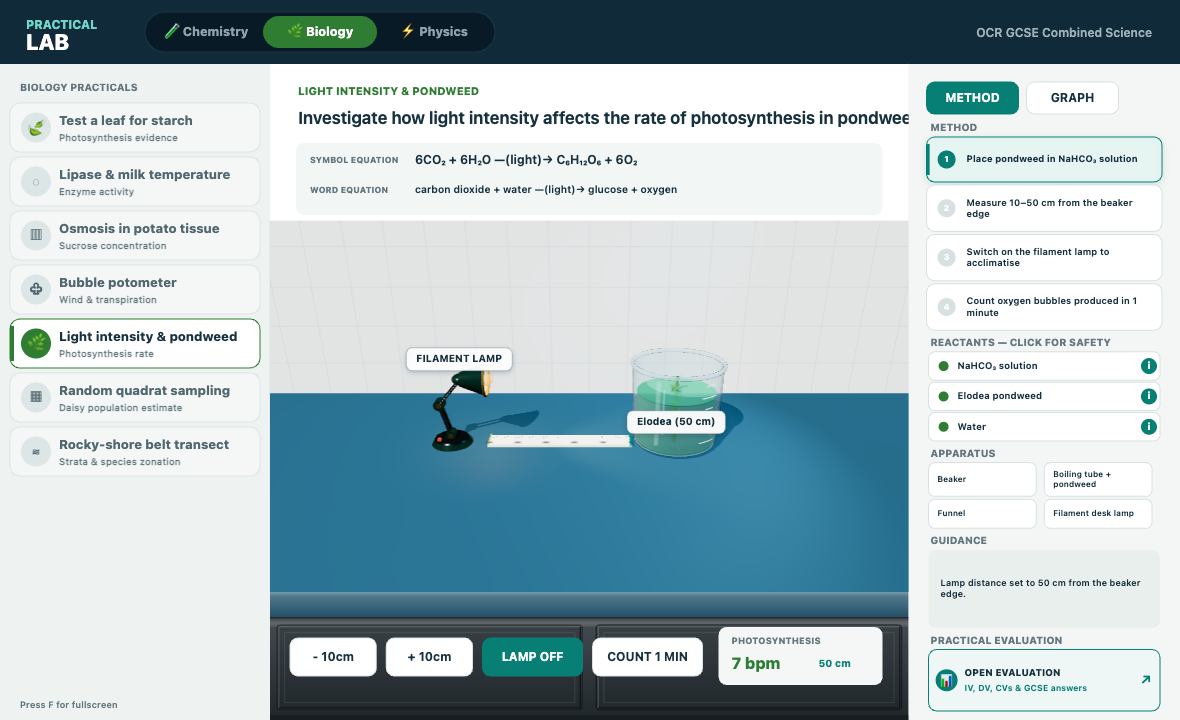
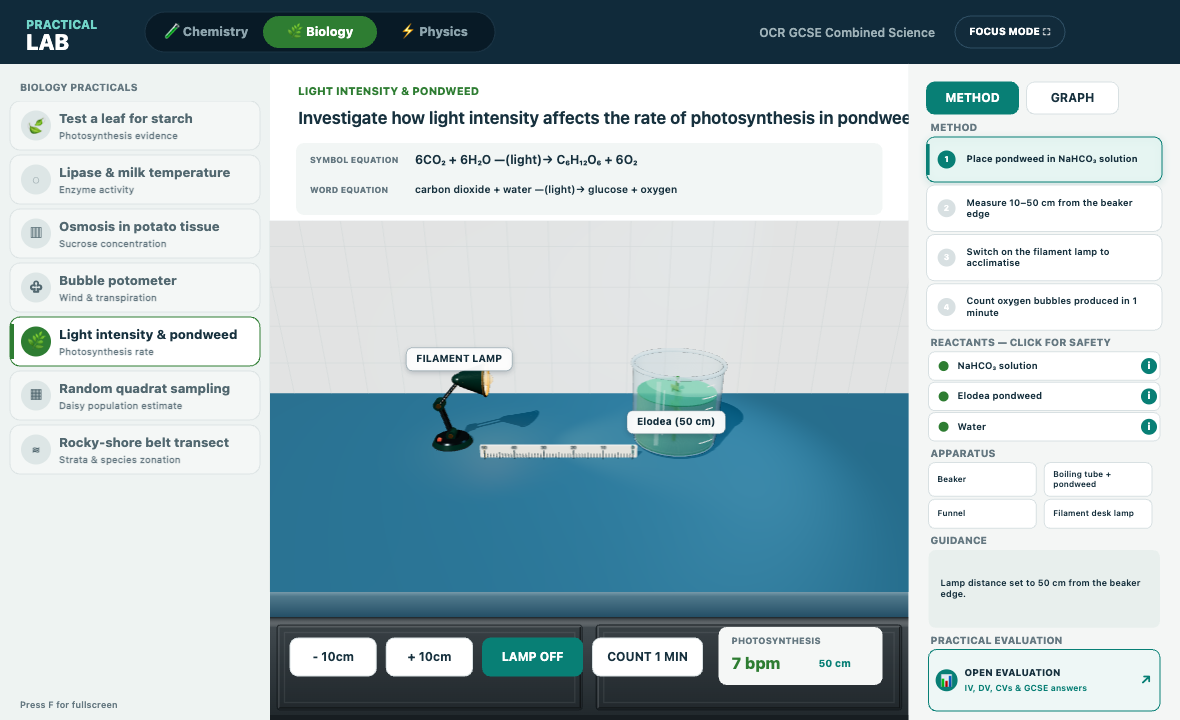
feat: add automated focus mode QA test script and update playwright dependency path

diff --git a/app.js b/app.js
@@ -3750,7 +3750,7 @@ window.render_game_to_text = () => {
   const stageNames = ['ready', 'pouring acid', 'collecting hydrogen', 'sealed and ready to test', 'igniting hydrogen', 'test complete'], hydrogenStage = state.hydrogenStage, hydrogenT = state.hydrogenTimer, thumbPose = id === 'hydrogen' ? (hydrogenStage === 0 || hydrogenStage === 2 || hydrogenStage === 3 ? 'sealed' : hydrogenStage === 1 ? (hydrogenT < .48 ? 'withdrawing' : hydrogenT < 1.55 ? 'clear for pouring' : hydrogenT < 2.07 ? 'resealing' : 'sealed') : hydrogenStage === 4 ? (hydrogenT < .3 ? 'withdrawing for splint' : 'clear for splint') : 'clear') : null, thumbSealing = thumbPose === 'sealed', acidT = state.pour?.t || 0, acidTransfer = state.pour ? { phase: acidT < .9 ? 'lifting and approaching' : acidT < 1.1 ? 'tilting' : acidT < 2.5 ? 'pouring' : acidT < 2.78 ? 'uprighting' : 'returning', elapsed_s: +acidT.toFixed(2), fraction: +state.transferred.toFixed(2), from: 'HCl(aq) conical flask', to: id === 'temp' ? 'NaOH(aq) conical flask' : 'sodium thiosulfate conical flask', lip_alignment: 'source lip centred vertically above receiver opening', lip_horizontal_error_world: +(lab3d.pourAlignment?.horizontalError || 0).toFixed(4), lip_clearance_world: +(lab3d.pourAlignment?.verticalClearance || 0).toFixed(3) } : null;
   const saltTimer = state.saltsTimer || 0, saltMoveQ = Math.max(0, Math.min(1, saltTimer / 2.8)), saltFrontQ = Math.max(0, Math.min(1, saltMoveQ / .62)), saltDropQ = Math.max(0, Math.min(1, (saltMoveQ - .62) / .38));
   const saltPhase = state.saltsStage === 4 ? (saltTimer < 1.736 ? 'moving basin forward clear of gauze' : saltTimer < 2.8 ? 'lowering basin onto bench' : 'crystallising on bench') : state.saltsStage === 3 ? 'heating and evaporating' : state.saltsStage === 2 ? 'filtering mixture' : state.saltsStage === 1 ? 'adding copper oxide' : 'acid ready';
-  return JSON.stringify({ coordinates: 'origin top-left, x right, y down', id, subject: p.subject, renderer: { ...lab3d.info, legacy_2d_apparatus: !lab3d.available }, mode: free ? 'free workspace' : 'guided practical', practical: p.title, objective: p.objective, symbol_equation: p.eq, word_equation: p.word, tab: state.tab, running: state.running, complete: state.complete, practical_evaluation: free ? null : { position: 'below guidance', section_heading: 'PRACTICAL EVALUATION', button_label: 'OPEN EVALUATION', ready: state.complete, appearance: state.complete ? 'filled teal with glow' : 'outlined pale teal' }, dragging: state.drag?.kind || null, pouring: !!state.pour, acid_transfer: acidTransfer, bunsen_lit: free ? freeBurnerLit : state.burner, magnesium_glow: id === 'mass' && state.massStage === 4 && state.running, dose_dialog: state.dose && { reactant: state.dose.reactantId, amount: state.dose.amount, target: state.dose.targetUid }, tripod_gauze_snap_targets: snapTargets, workspace_items: state.workspace.map(it => ({ uid: it.uid, type: it.type, x: Math.round(it.x), y: Math.round(it.y), lit: !!it.lit, snapped_to: it.snappedTo || null, temperature_c: +(it.temperature || 20).toFixed(1), heating: !!it.heating, ...(isPhVessel(it) ? { liquid_ph: Number.isFinite(it.ph) ? +it.ph.toFixed(2) : null } : {}), ...(it.type === 'phmeter' ? { form: 'one continuous red tapered pencil-like probe', attached_to: it.attachedTo || null, auto_positioned: !!it.attachedTo, display_location: 'built into wider top section', display_surface: 'curved cylindrical arc following the upper housing', display_ph: phMeterReading(it) == null ? null : +phMeterReading(it).toFixed(2), raised_for_nib_visibility: true, metallic_sensor_nib_visible: true, nib_state: it.attachedTo ? 'visible and immersed in sample' : 'visible above worktop' } : {}), ...(it.type === 'bunsen' ? { gas_tap: 'white enamel', gas_valve: it.lit ? 'open' : 'closed', hose: 'attached', main_tube: 'hollow with chamfered wider mouth', base_profile: 'circular hyperbolic rise', base_top_sealed_to_main_tube: true, base_barrel_radial_clearance_scene_units: .001, base_intake_clearance_sector_degrees: 35, air_intake_valve: 'raised above the base-to-barrel seal', gas_connector_raised_with_valve: true } : {}), contents: it.contents })), mass_practical: id === 'mass' ? { stage: state.massStage, lid_on: state.massLidOn, lid_click_target: massLidTarget, material: state.massStage >= 5 ? 'flaky white magnesium oxide' : 'coiled magnesium ribbon', transfer: state.massTransfer?.direction || null, before_g: state.massBefore, after_g: state.massAfter } : null, salt_practical: id === 'salts' ? { stage: state.saltsStage, phase: saltPhase, timer_s: +state.saltsTimer.toFixed(2), basin_geometry: 'thick ceramic evaporating dish with rounded rolled lip', basin_transfer: state.saltsStage === 4 ? { front_progress: +saltFrontQ.toFixed(2), lowering_progress: +saltDropQ.toFixed(2), front_clear_of_gauze: saltFrontQ >= 1 } : null } : null, hydrogen_practical: id === 'hydrogen' ? { stage: state.hydrogenStage, phase: stageNames[state.hydrogenStage], timer_s: +state.hydrogenTimer.toFixed(2), test_tube_contents: state.hydrogenStage === 0 ? 'coiled magnesium ribbon' : 'magnesium ribbon + dilute hydrochloric acid', measuring_cylinder_hcl_ml: +(15 * (1 - state.transferred)).toFixed(1), thumb_pose: thumbPose, thumb_sealing: thumbSealing, bubbles_visible: state.hydrogenStage === 1 || state.hydrogenStage === 2, gas_volume_cm3: +state.hydrogenGas.toFixed(1), lit_splint_visible: state.hydrogenStage === 4, flame_travelling: state.hydrogenStage === 4 && state.hydrogenTimer >= .4 && state.hydrogenTimer < .88, squeaky_pop_played: state.hydrogenAudioPlayed } : null, thermometer_visual: id === 'temp' ? { position: 'centred in receiver flask', length_multiplier: 2, graduations: 'short curved white bands on the front section of the glass', temperature_c: +state.temp.toFixed(1), alcohol_fraction: +Math.max(0, Math.min(1, (state.temp - 20) / 28)).toFixed(2) } : null, time_s: +state.time.toFixed(1), temperature_c: +state.temp.toFixed(1), volume_ml: +state.volume.toFixed(1), ph: +state.ph.toFixed(1), progress: +state.progress.toFixed(2), chromatography_dyes: chrom ? { separation: +state.progress.toFixed(2), initial_spot: 'single black ink dot', baseline: 'graphite pencil line', solvent_front_cm: +(chromSolventDistanceCm * state.progress).toFixed(1), solvent_front_mode: state.progress >= .94 ? 'pencil line drawn' : 'water soaking upward', paper_wet_fraction: +state.progress.toFixed(2), selected_pigment: state.chromSelectedDye, pigments: chromMeasurementData() } : null, graph_axes: spec && id !== 'chrom' ? { x: spec.xLabel, y: spec.yLabel } : null, results_columns: id === 'mass' ? ['measurement', 'mass / g'] : id === 'electro' ? ['electrode', 'polarity', 'before_g', 'after_g', 'change_g'] : null, graph_readings: state.points.length, last_graph_reading: state.points.at(-1) && { x: +state.points.at(-1).xValue.toFixed(2), y: +state.points.at(-1).yValue.toFixed(2) }, guidance: state.toast, controls: free ? ['Equipment and Reactant Shelf tabs', 'click or drag equipment', 'pH meter auto-positions into beakers and test tubes', 'drag a flask or beaker onto tripod gauze to snap', 'align a lit Bunsen below the tripod to heat contents', 'dose slider then ADD DOSE', 'click Bunsen gas tap to open/close valve', 'CLEAR BENCH', 'UNDO LAST', 'F fullscreen'] : id === 'mass' ? ['MOVE TO TRIPOD', 'click crucible lid', 'LIGHT BUNSEN', 'COOL & REWEIGH', 'RESULTS', 'METHOD', 'F fullscreen'] : id === 'hydrogen' ? ['POUR DILUTE HCl', 'TEST WITH LIT SPLINT', 'RECORD', 'GRAPH', 'METHOD', 'F fullscreen'] : id === 'electro' ? ['SWITCH ON', 'RESET', 'RECORD MASSES', 'RESULTS', 'METHOD', 'F fullscreen'] : id === 'chrom' ? ['icon practical cards', 'click or drag reactants below method', 'START/RESET', 'MEASURE pigments', 'click a pigment to measure from the graphite baseline', 'RECORD', 'METHOD', 'F fullscreen'] : ['icon practical cards', 'click or drag reactants below method', 'START/RESET', 'APPLY HEAT', 'RECORD', 'METHOD', 'GRAPH', 'F fullscreen'] })
+  return JSON.stringify({ coordinates: 'origin top-left, x right, y down', id, subject: p.subject, renderer: { ...lab3d.info, legacy_2d_apparatus: !lab3d.available }, mode: free ? 'free workspace' : 'guided practical', practical: p.title, objective: p.objective, symbol_equation: p.eq, word_equation: p.word, tab: state.tab, focus_mode: state.focusMode, method_dropdown: state.methodDropdown, graph_modal: { open: state.graphModal }, evaluation_modal: { open: state.evaluationModal }, running: state.running, complete: state.complete, practical_evaluation: free ? null : { position: 'below guidance', section_heading: 'PRACTICAL EVALUATION', button_label: 'OPEN EVALUATION', ready: state.complete, appearance: state.complete ? 'filled teal with glow' : 'outlined pale teal' }, dragging: state.drag?.kind || null, pouring: !!state.pour, acid_transfer: acidTransfer, bunsen_lit: free ? freeBurnerLit : state.burner, magnesium_glow: id === 'mass' && state.massStage === 4 && state.running, dose_dialog: state.dose && { reactant: state.dose.reactantId, amount: state.dose.amount, target: state.dose.targetUid }, tripod_gauze_snap_targets: snapTargets, workspace_items: state.workspace.map(it => ({ uid: it.uid, type: it.type, x: Math.round(it.x), y: Math.round(it.y), lit: !!it.lit, snapped_to: it.snappedTo || null, temperature_c: +(it.temperature || 20).toFixed(1), heating: !!it.heating, ...(isPhVessel(it) ? { liquid_ph: Number.isFinite(it.ph) ? +it.ph.toFixed(2) : null } : {}), ...(it.type === 'phmeter' ? { form: 'one continuous red tapered pencil-like probe', attached_to: it.attachedTo || null, auto_positioned: !!it.attachedTo, display_location: 'built into wider top section', display_surface: 'curved cylindrical arc following the upper housing', display_ph: phMeterReading(it) == null ? null : +phMeterReading(it).toFixed(2), raised_for_nib_visibility: true, metallic_sensor_nib_visible: true, nib_state: it.attachedTo ? 'visible and immersed in sample' : 'visible above worktop' } : {}), ...(it.type === 'bunsen' ? { gas_tap: 'white enamel', gas_valve: it.lit ? 'open' : 'closed', hose: 'attached', main_tube: 'hollow with chamfered wider mouth', base_profile: 'circular hyperbolic rise', base_top_sealed_to_main_tube: true, base_barrel_radial_clearance_scene_units: .001, base_intake_clearance_sector_degrees: 35, air_intake_valve: 'raised above the base-to-barrel seal', gas_connector_raised_with_valve: true } : {}), contents: it.contents })), mass_practical: id === 'mass' ? { stage: state.massStage, lid_on: state.massLidOn, lid_click_target: massLidTarget, material: state.massStage >= 5 ? 'flaky white magnesium oxide' : 'coiled magnesium ribbon', transfer: state.massTransfer?.direction || null, before_g: state.massBefore, after_g: state.massAfter } : null, salt_practical: id === 'salts' ? { stage: state.saltsStage, phase: saltPhase, timer_s: +state.saltsTimer.toFixed(2), basin_geometry: 'thick ceramic evaporating dish with rounded rolled lip', basin_transfer: state.saltsStage === 4 ? { front_progress: +saltFrontQ.toFixed(2), lowering_progress: +saltDropQ.toFixed(2), front_clear_of_gauze: saltFrontQ >= 1 } : null } : null, hydrogen_practical: id === 'hydrogen' ? { stage: state.hydrogenStage, phase: stageNames[state.hydrogenStage], timer_s: +state.hydrogenTimer.toFixed(2), test_tube_contents: state.hydrogenStage === 0 ? 'coiled magnesium ribbon' : 'magnesium ribbon + dilute hydrochloric acid', measuring_cylinder_hcl_ml: +(15 * (1 - state.transferred)).toFixed(1), thumb_pose: thumbPose, thumb_sealing: thumbSealing, bubbles_visible: state.hydrogenStage === 1 || state.hydrogenStage === 2, gas_volume_cm3: +state.hydrogenGas.toFixed(1), lit_splint_visible: state.hydrogenStage === 4, flame_travelling: state.hydrogenStage === 4 && state.hydrogenTimer >= .4 && state.hydrogenTimer < .88, squeaky_pop_played: state.hydrogenAudioPlayed } : null, thermometer_visual: id === 'temp' ? { position: 'centred in receiver flask', length_multiplier: 2, graduations: 'short curved white bands on the front section of the glass', temperature_c: +state.temp.toFixed(1), alcohol_fraction: +Math.max(0, Math.min(1, (state.temp - 20) / 28)).toFixed(2) } : null, time_s: +state.time.toFixed(1), temperature_c: +state.temp.toFixed(1), volume_ml: +state.volume.toFixed(1), ph: +state.ph.toFixed(1), progress: +state.progress.toFixed(2), chromatography_dyes: chrom ? { separation: +state.progress.toFixed(2), initial_spot: 'single black ink dot', baseline: 'graphite pencil line', solvent_front_cm: +(chromSolventDistanceCm * state.progress).toFixed(1), solvent_front_mode: state.progress >= .94 ? 'pencil line drawn' : 'water soaking upward', paper_wet_fraction: +state.progress.toFixed(2), selected_pigment: state.chromSelectedDye, pigments: chromMeasurementData() } : null, graph_axes: spec && id !== 'chrom' ? { x: spec.xLabel, y: spec.yLabel } : null, results_columns: id === 'mass' ? ['measurement', 'mass / g'] : id === 'electro' ? ['electrode', 'polarity', 'before_g', 'after_g', 'change_g'] : null, graph_readings: state.points.length, last_graph_reading: state.points.at(-1) && { x: +state.points.at(-1).xValue.toFixed(2), y: +state.points.at(-1).yValue.toFixed(2) }, guidance: state.toast, controls: free ? ['Equipment and Reactant Shelf tabs', 'click or drag equipment', 'pH meter auto-positions into beakers and test tubes', 'drag a flask or beaker onto tripod gauze to snap', 'align a lit Bunsen below the tripod to heat contents', 'dose slider then ADD DOSE', 'click Bunsen gas tap to open/close valve', 'CLEAR BENCH', 'UNDO LAST', 'F fullscreen'] : id === 'mass' ? ['MOVE TO TRIPOD', 'click crucible lid', 'LIGHT BUNSEN', 'COOL & REWEIGH', 'RESULTS', 'METHOD', 'F fullscreen'] : id === 'hydrogen' ? ['POUR DILUTE HCl', 'TEST WITH LIT SPLINT', 'RECORD', 'GRAPH', 'METHOD', 'F fullscreen'] : id === 'electro' ? ['SWITCH ON', 'RESET', 'RECORD MASSES', 'RESULTS', 'METHOD', 'F fullscreen'] : id === 'chrom' ? ['icon practical cards', 'click or drag reactants below method', 'START/RESET', 'MEASURE pigments', 'click a pigment to measure from the graphite baseline', 'RECORD', 'METHOD', 'F fullscreen'] : ['icon practical cards', 'click or drag reactants below method', 'START/RESET', 'APPLY HEAT', 'RECORD', 'METHOD', 'GRAPH', 'F fullscreen'] })
 };
 const baseRenderGameToText = window.render_game_to_text;
 window.render_game_to_text = () => { const payload = JSON.parse(baseRenderGameToText()); if (practicals[state.selected].id === 'water') { const receiving = state.burner && state.coolingWater && !state.complete && state.progress > .22, dripCycle = (state.time * 1.12 + .08) % 1; payload.bunsen_lit = false; payload.electric_heater_on = state.burner; payload.cooling_water_on = state.coolingWater; payload.water_purification = { apparatus: 'round-bottom flask in electric heating mantle with a glass fractionating column, Liebig condenser and receiving beaker', heater_on: state.burner, cooling_water_on: state.coolingWater, cooling_direction: 'lower condenser inlet to upper outlet (counter-current)', cooling_inlet_route: 'around the right side and above the receiving beaker', cooling_inlet_clear_of_receiver: true, cooling_flow_visual: 'smooth travelling translucency changes', coolant_transition_smooth: true, flow_particle_markers: false, receiver_fill_continuous: true, condensate_drop_visible: receiving && dripCycle < .81, splash_visible: receiving && dripCycle >= .78, splash_droplets: 6, water_sample_label_offset_px: 28, distillation_thermometer_marks: 9, distillation_thermometer_mark_shape: 'partial curved bands around the glass tube', distillation_thermometer_temperature_c: +state.temp.toFixed(1), distillation_thermometer_alcohol_fraction: +Math.max(0, Math.min(1, (state.temp - 25) / 72)).toFixed(2), boiling: state.running && state.progress > .16, vapour_visible: state.running && state.progress > .2, condensate_visible: (state.running || state.complete) && state.progress > .25, distillate_collected_ml: +state.volume.toFixed(1) }; payload.controls = ['WATER ON/OFF', 'HEATER ON/OFF', 'RECORD', 'METHOD', 'GRAPH', 'F fullscreen'] } return JSON.stringify(payload) };
